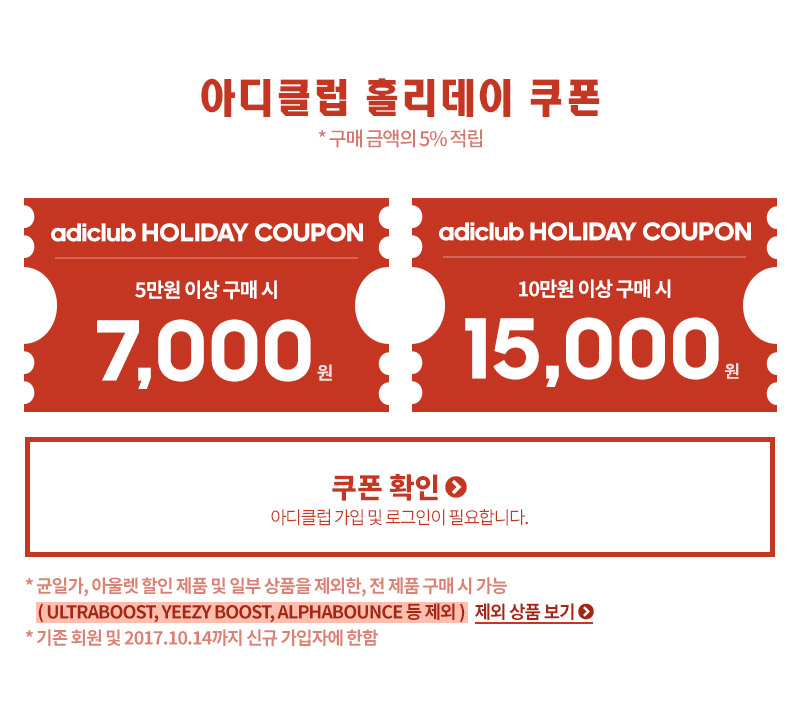
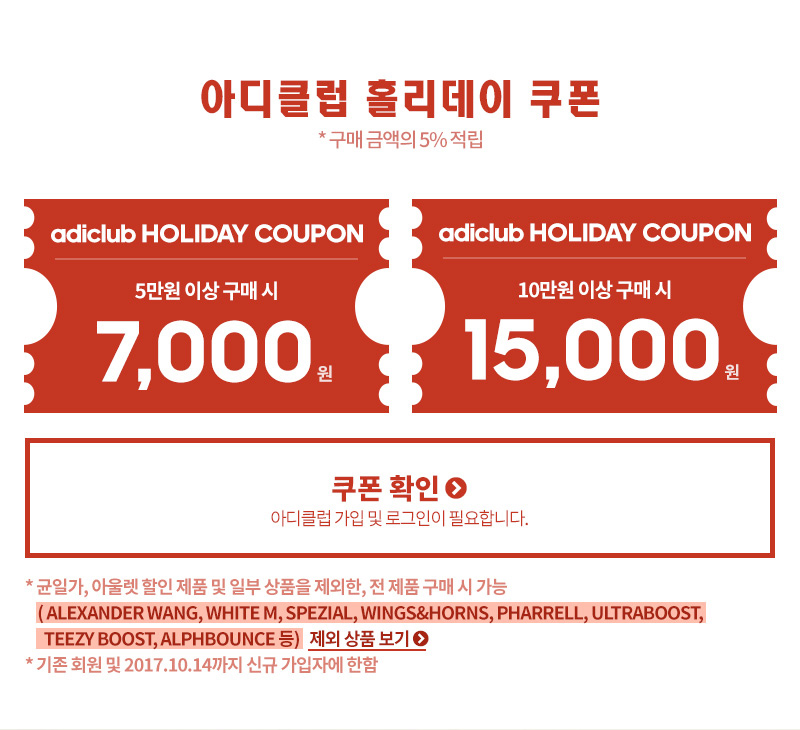
아디다스 홀리데이

diff --git a/app/html/adidas/event/holiday/201709/index.html b/app/html/adidas/event/holiday/201709/index.html
@@ -432,8 +432,11 @@
 		</div>
 
 		<div id="container">
+
+            <!-- 201709 -->
 			<style type="text/css">
 				#holiday_201609{
+				    padding-top: 60px;
 					width: 100%;
 					position: relative;
 				}
@@ -451,35 +454,85 @@
 					position: absolute;
 					text-indent: -9999px;
 				}
+                .holiday_201609{
+                    display: none;
+                }
+                .holiday_201609 .header{
+                    background: #000;
+                }
+                .holiday_201609 .header .close_x_btn{
+                    width: 40px;
+                    height: 40px;
+                    top: -40%;
+                }
+                .holiday_201609 .header .close_x_btn:after,.holiday_201609 .header .close_x_btn:before{
+                    background: #fff;
+                    height: 2px;
+                }
+                .holiday_201609 .header h2{
+                    color:#fff;
+                    text-align: center;
+                }
+                .holiday_201609 .contents{
+                    padding: 2rem 1.5rem 0;
+                    height: 30rem;
+                    overflow-x: hidden;
+                }
+                .holiday_201609 .contents .article{
+                    padding-bottom: 1.5rem;
 
+                    /*padding: 0 0 2rem 0;*/
+                }
+                .holiday_201609 .contents .article.col2{
+                    width: 50%;
+                    float: left;
+                }
+                .holiday_201609 .contents .row{
+                    display: flex;
+                    padding-bottom: 1.5rem;
+                }
+                .holiday_201609 .contents .row .article{
+                    flex: 1;
+                }
+                .holiday_201609 .contents .article h3{
+                    padding: 0 0 5px 0;
+                    font:1.5rem 'adinenuPro-bold';
+                    text-transform: uppercase;
+                }
+                .holiday_201609 .contents .article p{
+                    font:1.1rem 'adinenuPro-light';
+                    color:#535353;
+                    letter-spacing: 0.5px;
+
+                }
 			</style>
 
 			<div id="holiday_201609">
-				<div class="box"><img src="/images/adidas/event/holiday/201709/main.jpg" alt=""></div>
+				<div class="box"><img src="http://imagem.adidas.co.kr/images/adidas/event/holiday/201709/main.jpg" alt=""></div>
 				<div class="box">
-					<img src="/images/adidas/event/holiday/201709/coupon.jpg" alt="">
+					<img src="http://imagem.adidas.co.kr/images/adidas/event/holiday/201709/coupon.jpg" alt="">
                     <a href="https://m.adidas.co.kr:446/MO/MyPage/mypageCoupSel.action" class="link" style="width: 90%;height: 15.5%;top: 60.4%;left: 5%;">쿠폰 확인</a>
-					<a href="#" class="link" style="width: 90%;height: 10.5%;top: 82.4%;left: 5%;">제외상품</a>
+					<a href="javascript:void(0)" class="link exceptPrd" style="width: 90%;height: 10.5%;top: 82.4%;left: 5%;">제외상품</a>
 				</div>
                 <div class="box">
-					<img src="/images/adidas/event/holiday/201709/img1.jpg" alt="">
+					<img src="http://imagem.adidas.co.kr/images/adidas/event/holiday/201709/img1.jpg" alt="">
                     <a href="http://m.adidas.co.kr/MO/Product/bnsPrdList.action?section=BEST&ctgr_cd=01002&prod_cl_cd=#section=BEST&ctgr_cd=01002&strPage=1&term=1&sQuick=N" class="link" style="width: 90%;height: 10.5%;bottom: 0;left: 5%;">여성베스트</a>
 				</div>
                 <div class="box">
-					<img src="/images/adidas/event/holiday/201709/img2.jpg" alt="">
+					<img src="http://imagem.adidas.co.kr/images/adidas/event/holiday/201709/img2.jpg" alt="">
                     <a href="http://m.adidas.co.kr/MO/Product/bnsPrdList.action?section=BEST&ctgr_cd=01001&prod_cl_cd=#section=BEST&ctgr_cd=01001&strPage=1&term=1&sQuick=N" class="link" style="width: 90%;height: 10.5%;bottom: 0;left: 5%;">남성베스트</a>
 				</div>
                 <div class="box">
-					<img src="/images/adidas/event/holiday/201709/img3.jpg" alt="">
+					<img src="http://imagem.adidas.co.kr/images/adidas/event/holiday/201709/img3.jpg" alt="">
                     <a href="http://m.adidas.co.kr/MO/Product/bnsPrdList.action?section=BEST&ctgr_cd=01003&prod_cl_cd=#section=BEST&ctgr_cd=01003&strPage=1&term=1&sQuick=N" class="link" style="width: 90%;height: 10.5%;bottom: 0;left: 5%;">키즈베스트</a>
 				</div>
                 <div class="box">
-					<img src="/images/adidas/event/holiday/201709/img4.jpg" alt="">
-                    <a href="#" class="link" style="width: 90%;height: 6.5%;top: 40.4%;left: 5%;">제외상품</a>
-                    <a href="http://shop.adidas.co.kr/upload/storelist/index.html?adidasHoliday2017" class="link" style="width: 90%;height: 7.5%;top: 72.4%;left: 5%;">쿠폰사용가능매장</a>
+					<img src="http://imagem.adidas.co.kr/images/adidas/event/holiday/201709/img4.jpg" alt="">
+                    <a href="javascript:void(0)" class="link exceptPrd" style="width: 90%;height: 6.5%;top: 43.22%;left: 5%;">제외상품</a>
+                    <a href="http://shop.adidas.co.kr/upload/storelist/index.html?adidasHoliday2017" class="link" style="width: 90%;height: 7.5%;top: 76.4%;left: 5%;">쿠폰사용가능매장</a>
 				</div>
 			</div>
-			<!-- //holiday_201609 -->
+			<!-- //201709 -->
 
 
 		</div>
@@ -512,88 +565,177 @@
 				<p style="color:#666;">Copyright © 2011 adidas Korea Inc.</p>
 			</div>
 		</div>
+
+        <!-- 201709 -->
+        <div class="layerpopup-wrapper holiday_201609">
+			<div class="overlay"></div>
+			<div class="layerpopup">
+				<div class="header">
+					<h2>홀리데이 쿠폰 제외 상품</h2>
+					<div class="close_x_btn" href="javascript:void(0)"></div>
+				</div>
+				<div class="contents">
+                    <div class="article">
+						<h3>Alexander Wang</h3>
+						<p>
+							AC6839, AC6840, AC6841, AC6842, AC6844, AC6845, AC6846, AC6847, AC6848, AC6849,
+							AC6850, AC6851, AC7408, CG1973, CG1976, CG1978, CG1980, CG1981, CG1994, CG1996, CG1997,
+							CG1998, CG1999, CG2000, CG2001, CG2002, CG2005, CG2006, CG2008, CG2010, CG2012,
+							CG2013, CV5045, CV5046, CV5048, CV5049, CV5050, CV5051, CV5052, CV5053, CV5248,
+							CV5249, CV5250, CV5251, CV5254, CV5255, CV5256, CV5257, CV5258, CV5259, CV5264,
+							CV5265, CV5266, CV5267, CV5269, CV5271, CV5273, CV5275, CV5277, CV5279, CV5280,
+							CV5281, CV5282, CV5284, CV5286, CV5288, CV5290, CV5291, CV5292, CV5293, CV5294,
+							CV5295, CV5298, CV5300, CV5304, CV7449, CV7450, CV7451, CV7453, CV7454, CV7456,
+							CV7457, CV7459, CV7460, CW0503, CW0504, CW0505, CW0506, CW0507, CW0508, CW2033,
+							CW3368, CW3369, CW3558, CX0235, DA9309
+						</p>
+					</div>
+					<div class="article">
+						<h3>WHITE M</h3>
+						<p>
+							BQ4063, BQ4065, BQ4068, BQ4069, BQ4071, BQ4077, BQ4080, BQ4094, BQ4096, BQ4098,
+							BQ4101, BQ4102, BQ4104, BQ4107, BQ4109, BQ4110, BQ4113, BQ4115, BQ4116, BQ4120, BQ4121,
+							BQ4123, BQ4126, BQ4127, BQ4129, CG3646, CG3647, CG3648, CG3649, CG3650, CG3651,
+							CG3652, CG3666, CG3667, CG3668, CG3669, CQ1763, CQ1764
+						</p>
+					</div>
+					<div class="article">
+						<h3>Spezial</h3>
+						<p>
+							CD2448, CD2450, CD2451, CD2452, CD2453, CD2454, CD2455, CD2456, CD2458, CG2918,
+							CG2919, CG2920, CG2921, CG2922, CG2923, CG2924, CG2925, CG2926, CG2927
+						</p>
+					</div>
+					<div class="article">
+						<h3>Wings&Horns</h3>
+						<p>
+							BR0155, BR0159, BR0161, BR0164, BR0166, BR0167, BR0170, BR0172, CE6134, CG3750, CG3752,
+							CG3781, CI8183, CI8184, CI8185, CI8186, CI8187, CP9550
+						</p>
+					</div>
+					<div class="article">
+						<h3>Pharrell</h3>
+						<p>
+							BY2671, BY2672, BY2673, CQ1872, AC7188, AC7359, AC7360, AC7361, CE9482, CE9483, CE9484,
+							CE9485, CE9486, CE9488, CE9490, CE9491
+						</p>
+					</div>
+					<div class="article">
+						<h3>LTD</h3>
+						<p>
+							BA8229, CG2993, CG3038, CG3004, CP9632, CP9685, CP9686, CG3001, CG2994, CG2995,
+							CG3003
+						</p>
+					</div>
+					<div class="article">
+						<h3>YEEZY</h3>
+						<p>
+							BB6372, BB6373, CP9366, CP9652, CP9654, AH2203, B37571, B37572, DA9572
+						</p>
+					</div>
+					<div class="article">
+						<h3>MMW</h3>
+						<p>
+							CG0752, CG0753, CG0754, CG0755, CQ1824, CQ1825, CQ1826, CQ1827
+						</p>
+					</div>
+                    <div class="row">
+    					<div class="article col2">
+    						<h3>Ultraboost</h3>
+    						<p>
+    							S80731, S80732, BA8841, BA8842
+    						</p>
+    					</div>
+    					<div class="article col2">
+    						<h3>CRAFTED PACK</h3>
+    						<p>
+    							BW1249, BW1250, BW1253
+    						</p>
+    					</div>
+                    </div>
+                    <div class="row">
+    					<div class="article col2">
+    						<h3>PARLEY</h3>
+    						<p>AC7804, CQ0299, AC7804, CQ0299</p>
+    					</div>
+    					<div class="article col2">
+    						<h3>Reigning Champ</h3>
+    						<p>
+    							CG5328, CG5330, CG5331
+    						</p>
+    					</div>
+                    </div>
+                    <div class="row">
+    					<div class="article col2">
+    						<h3>crazy</h3>
+    						<p>
+    							BY4423
+    						</p>
+    					</div>
+    					<div class="article col2">
+    						<h3>Winter JKT</h3>
+    						<p>
+    							AA6885, AA6886
+    						</p>
+    					</div>
+                    </div>
+                    <div class="row">
+    					<div class="article col2">
+    						<h3>NMD</h3>
+    						<p>
+    							CP9718, BW1126
+    						</p>
+    					</div>
+    					<div class="article col2">
+    						<h3>Equipment</h3>
+    						<p>
+    							DB0181
+    						</p>
+    					</div>
+                    </div>
+                    <div class="row">
+    					<div class="article col2">
+    						<h3>Harden</h3>
+    						<p>
+    							CG5106, CG5107
+    						</p>
+    					</div>
+    					<div class="article col2">
+    						<h3>New-York</h3>
+    						<p>
+    							CM7193
+    						</p>
+    					</div>
+                    </div>
+				</div>
+			</div>
+		</div>
+        <script type="text/javascript">
+    		(function($){
+
+                $('#holiday_201609 .exceptPrd').click(function(){
+                    $('.holiday_201609').css({'display':'block'});
+                    $('body').css({'overflow':'hidden'});
+                });
+                $('.holiday_201609 .close_x_btn').click(function(){
+                    $('.holiday_201609').css({'display':'none'});
+                    $('body').css({'overflow':'auto'});
+
+                });
+
+    		})(jQuery);
+
+    	</script>
+        <!-- //201709 -->
+
+
+
+
+
 	</div>
 
 	<script type="text/javascript" src="/js/adidas/common.js"></script>
-	<script type="text/javascript">
-		(function($){
-			$(document).ready(function() {
 
-				$('.odr_pay_box>.tit.toggle_arw').bind('click',function(){
-					if($(this).hasClass('open')){
-						$(this).removeClass('open');
-						$(this).siblings('.cont').hide();
-					}else{
-						$(this).addClass('open');
-						$(this).siblings('.cont').show();
-					}
-				});
-
-				$('.adr_history .tab_box .tab_btn>div').bind('click',function(){
-					if($(this).hasClass('on')){
-						return false;
-					}
-
-					$('.adr_history .tab_box .tab_btn>div').removeClass('on');
-					$(this).addClass('on');
-					$('.adr_history .tab_box .tab_cont>.box').removeClass('active');
-					$('.adr_history .tab_box .tab_cont>.box').eq($(this).index()).addClass('active');
-					return false;
-				});
-
-				/* 결제수단 선택 */
-				$('.select_payment .payment_list>div').bind('click',function(){
-					if($(this).hasClass('on')){
-						return false;
-					}
-
-					var attrClass = $(this).attr('class');
-					$('.select_payment .payment_list>div').removeClass('on');
-					$(this).addClass('on');
-
-					if(attrClass == 'p_kp'){
-						$('.select_payment .payments').hide();
-						$('#cardReport_choice2').show();
-					}else if(attrClass == 'p_mo'){
-						$('.select_payment .payments').hide();
-						$('#mobile_payment').show();
-					}else if(attrClass == 'p_acc'){
-						$('.select_payment .payments').hide();
-						$('#no_accbox').show();
-					}else{
-						$('.select_payment .payments').hide();
-					}
-
-					return false;
-				});
-
-				/* 현금영수증 신청 */
-				$('#CASH_RECPT_APPLY_Y').bind('click',function(){
-					$('#cashReport_choice').show();
-				});
-				$('#CASH_RECPT_APPLY_N').bind('click',function(){
-					$('#cashReport_choice').hide();
-				});
-
-				/* 개인소득 공제 */
-				$('#CASH_RECPT_PUBL_PRPOS_01').bind('click',function(){
-					$('#cashReport_bizr').hide();
-					$('#cashReport_phn').css({
-						display : 'table-row'
-					});
-				});
-
-				/* 사업자 증빙 */
-				$('#CASH_RECPT_PUBL_PRPOS_02').bind('click',function(){
-					$('#cashReport_phn').hide();
-					$('#cashReport_bizr').css({
-						display : 'table-row'
-					});
-				});
-			});
-		})(jQuery);
-
-	</script>
 
 </body>
 
